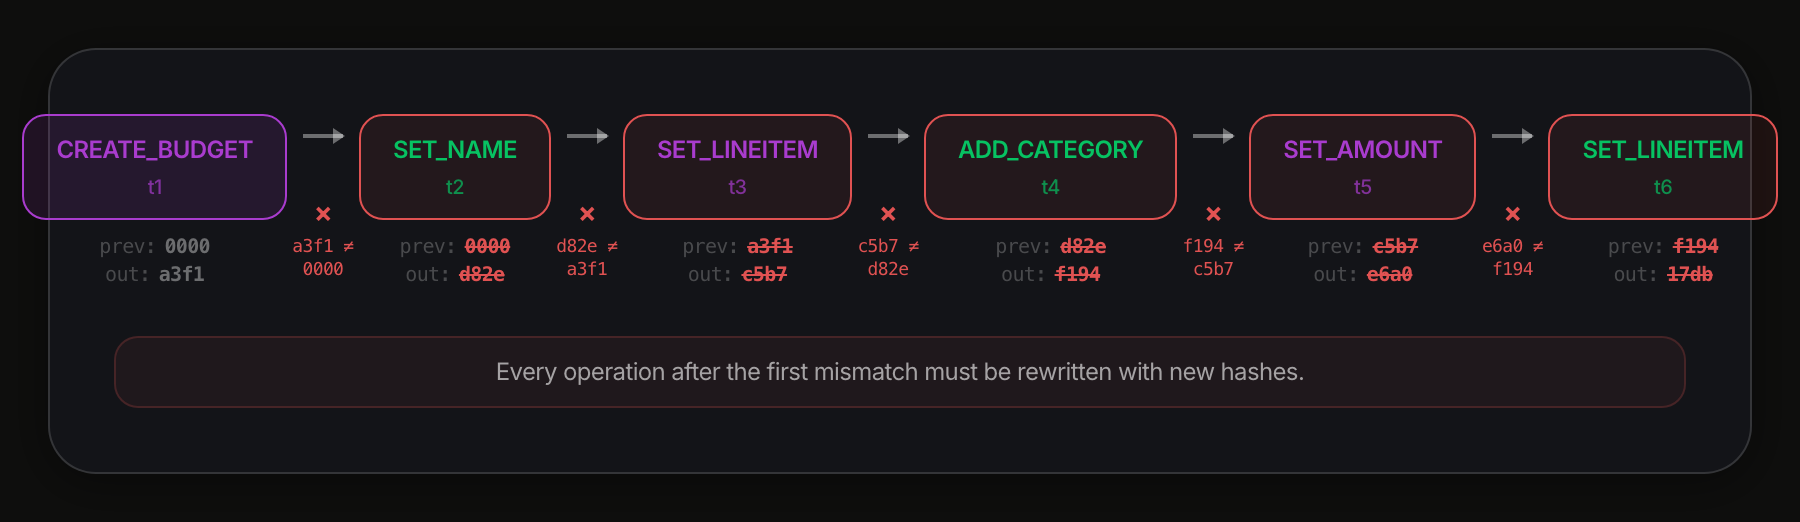
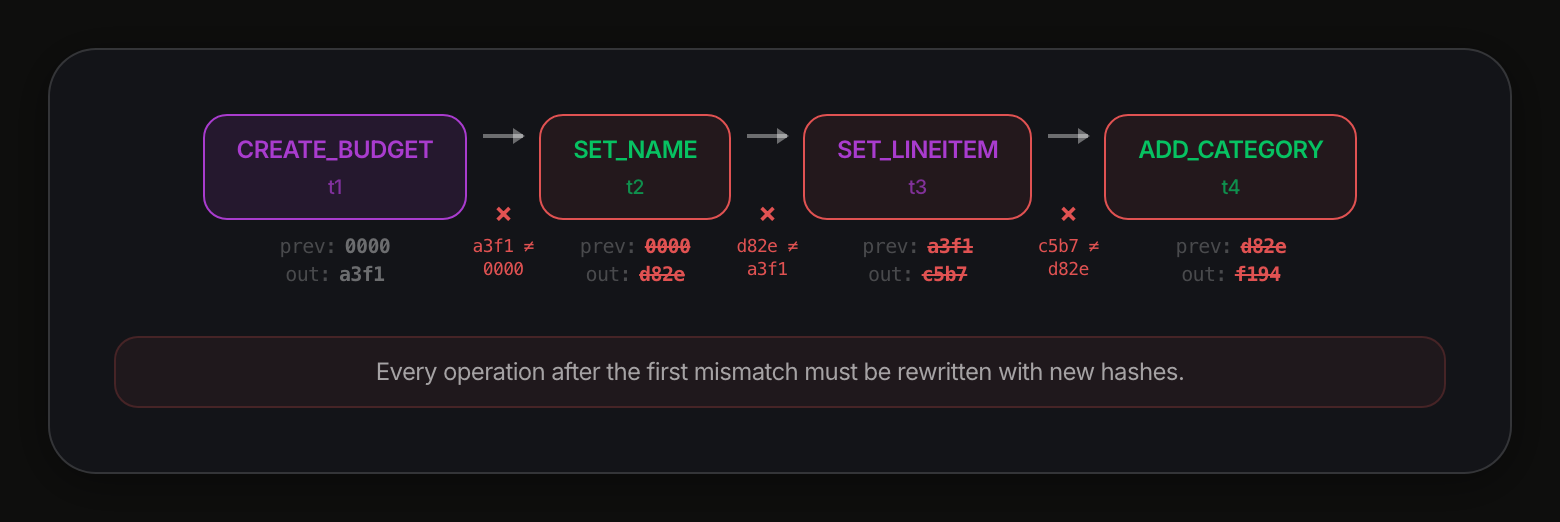
rebuild: interleaving diagram trimmed to four operations

diff --git a/index.html b/index.html
@@ -75,7 +75,7 @@
       <section data-slide="18"><header class="hd"><h2>How Figma does it: CRDTs</h2><span class="sec">Act III — Sync</span></header><div class="art"><div class="fit"><iframe src="diagrams/pages/crdt-max-operations.html" data-w="700" style="width:700px" scrolling="no" title="CRDT commutativity with max()"></iframe></div></div><aside class="notes"><h4>How Figma does it: CRDTs</h4><ul><li>II: &quot;CRDTs allow users to do work local-first and eventually come to a consensus on what the result should be.&quot;</li><li><code>max(x, 5)</code> and <code>max(x, 6)</code> in either order give 6. Passes 1, 2 and 3.</li><li>II: &quot;This sounds like it could be a perfect fit for The Reactor!&quot;</li></ul></aside></section>
       <section data-slide="19"><header class="hd"><h2>Where CRDTs stop</h2><span class="sec">Act III — Sync</span></header><div class="art"><div class="fit"><iframe src="diagrams/pages/crdt-withdraw-divergence.html" data-w="700" style="width:700px" scrolling="no" title="Reducer with a balance check diverges"></iframe></div></div><aside class="notes"><h4>Where CRDTs stop</h4><ul><li>II: &quot;CRDTs do not generalize to the same degree that Flux reducers do. That is, you cannot replace every reducer with a CRDT.&quot;</li><li>II: &quot;thank God your bank doesn't use CRDTs.&quot;</li><li>II: &quot;CRDTs are fairly tricky primitives for developers to work with anyway.&quot; Reducers here are written by users. Fails the reducer requirement.</li></ul></aside></section>
       <section data-slide="20"><header class="hd"><h2>Back to the stream: interleave by timestamp</h2><span class="sec">Act III — Sync</span></header><div class="art"><div class="fit"><iframe src="diagrams/pages/action-stream-interleaving.html" data-w="1200" style="width:1200px" scrolling="no" title="Two action streams interleaved by timestamp"></iframe></div></div><aside class="notes"><h4>Back to the stream: interleave by timestamp</h4><ul><li>II: &quot;Each operation specifies the Action that was run, an ordinal (an integer for counting), a timestamp, and a hash of the resulting state.&quot;</li><li>II: &quot;Clearly what we want to be able to do is interleave these streams by timestamp.&quot;</li></ul></aside></section>
-      <section data-slide="21"><header class="hd"><h2>Why you can't just interleave</h2><span class="sec">Act III — Sync</span></header><div class="art"><div class="fit"><iframe src="diagrams/pages/interleaving-breaks-hashes.html" data-w="900" style="width:900px" scrolling="no" title="Interleaving breaks the state-hash chain"></iframe></div></div><aside class="notes"><h4>Why you can't just interleave</h4><ul><li>II: &quot;operations are immutable objects that include information about what order they ran in and a resulting state hash. If we reorder them, then we'd need to mutate the immutable operation.&quot;</li><li>II: &quot;In OT, you essentially rewrite operations coming from other clients so that they make sense.&quot;</li><li>II: &quot;do you really want your mutations altered by someone else? Who gets to decide that anyway?&quot; Fails 3.</li><li>II: &quot;each Reactor writes to append-only storage backends... so we can't actually go back and rewrite operations or their order.&quot; Fails 2.</li></ul></aside></section>
+      <section data-slide="21"><header class="hd"><h2>Why you can't just interleave</h2><span class="sec">Act III — Sync</span></header><div class="art"><div class="fit"><iframe src="diagrams/pages/interleaving-breaks-hashes.html" data-w="780" style="width:780px" scrolling="no" title="Interleaving breaks the state-hash chain"></iframe></div></div><aside class="notes"><h4>Why you can't just interleave</h4><ul><li>II: &quot;operations are immutable objects that include information about what order they ran in and a resulting state hash. If we reorder them, then we'd need to mutate the immutable operation.&quot;</li><li>II: &quot;In OT, you essentially rewrite operations coming from other clients so that they make sense.&quot;</li><li>II: &quot;do you really want your mutations altered by someone else? Who gets to decide that anyway?&quot; Fails 3.</li><li>II: &quot;each Reactor writes to append-only storage backends... so we can't actually go back and rewrite operations or their order.&quot; Fails 2.</li></ul></aside></section>
       <section data-slide="22"><header class="hd"><h2>The scorecard</h2><span class="sec">Act III — Sync</span></header><div class="art"><div class="fit"><iframe src="diagrams/pages/sync-scorecard.html" data-w="1100" style="width:1100px" scrolling="no" title="Authoritative server, CRDTs, OT and Reshuffle graded against the requirements"></iframe></div></div><aside class="notes"><h4>The scorecard</h4><ul><li>II: &quot;On the spectrum of CRDTs and OT, it lies much closer to the latter — with some important differences.&quot;</li></ul></aside></section>
       <section data-slide="23"><header class="hd"><h2>Operational Reshuffle, step 1: sort</h2><span class="sec">Act III — Sync</span></header><div class="art"><div class="fit"><iframe src="diagrams/pages/ops-sorted-by-timestamp.html" data-w="1200" style="width:1200px" scrolling="no" title="Sort mixed A+B operations by timestamp"></iframe></div></div><aside class="notes"><h4>Operational Reshuffle, step 1: sort</h4><ul><li>II: &quot;Operations cannot be changed, but we can create new ones.&quot; Requirement 2.</li><li>II: &quot;We never rewrite a user's intent... We can create new Operations but we can never create new Actions. This is the main difference between Operational Reshuffle and Operational Transformation.&quot; Requirement 3.</li><li>Step 1: &quot;we take event streams A and B and order them by timestamp.&quot;</li></ul></aside></section>
       <section data-slide="24"><header class="hd"><h2>Step 2: find the merge base</h2><span class="sec">Act III — Sync</span></header><div class="art"><div class="fit"><iframe src="diagrams/pages/merge-base-highlighted.html" data-w="1200" style="width:1200px" scrolling="no" title="Merge base and the conflicted range"></iframe></div></div><aside class="notes"><h4>Step 2: find the merge base</h4><ul><li>II: &quot;we walk from start to front to find where the streams diverge, relative to A.&quot;</li><li>Same hash means same operation. First mismatch is the divergence. II: &quot;In more familiar git terminology, this would be called the 'merge base'.&quot;</li><li>II: &quot;we now have 9 operations in a conflicted state: 4 from A and 5 from B.&quot;</li></ul></aside></section>

diff --git a/diagrams/pages/interleaving-breaks-hashes.html b/diagrams/pages/interleaving-breaks-hashes.html
@@ -9,7 +9,7 @@
   <link rel="stylesheet" href="../css/base.css">
   <link rel="stylesheet" href="../css/components.css">
   <style>
-    .frame { max-width: 900px; }
+    .frame { max-width: 780px; }
     .card { height: auto; }
     .card-body { flex: none; }
 
@@ -202,38 +202,6 @@
             <div class="hash-label broken">
               <div class="hash-row"><span class="hash-key">prev:</span> <span class="hash-val">d82e</span></div>
               <div class="hash-row"><span class="hash-key">out:</span> <span class="hash-val">f194</span></div>
-            </div>
-          </div>
-
-          <!-- Link 4→5: mismatch (f194 ≠ c5b7) -->
-          <div class="link-col">
-            <div class="h-arrow"></div>
-            <div class="hash-indicator mismatch">&times;</div>
-            <div class="mismatch-detail">f194 &ne; c5b7</div>
-          </div>
-
-          <!-- Op 5: SET_AMOUNT (A, t5) — broken -->
-          <div class="op-col">
-            <div class="box accent-purple broken">SET_AMOUNT<span class="ts">t5</span></div>
-            <div class="hash-label broken">
-              <div class="hash-row"><span class="hash-key">prev:</span> <span class="hash-val">c5b7</span></div>
-              <div class="hash-row"><span class="hash-key">out:</span> <span class="hash-val">e6a0</span></div>
-            </div>
-          </div>
-
-          <!-- Link 5→6: mismatch (e6a0 ≠ f194) -->
-          <div class="link-col">
-            <div class="h-arrow"></div>
-            <div class="hash-indicator mismatch">&times;</div>
-            <div class="mismatch-detail">e6a0 &ne; f194</div>
-          </div>
-
-          <!-- Op 6: SET_LINEITEM (B, t6) — broken -->
-          <div class="op-col">
-            <div class="box accent-green broken">SET_LINEITEM<span class="ts">t6</span></div>
-            <div class="hash-label broken">
-              <div class="hash-row"><span class="hash-key">prev:</span> <span class="hash-val">f194</span></div>
-              <div class="hash-row"><span class="hash-key">out:</span> <span class="hash-val">17db</span></div>
             </div>
           </div>
 
